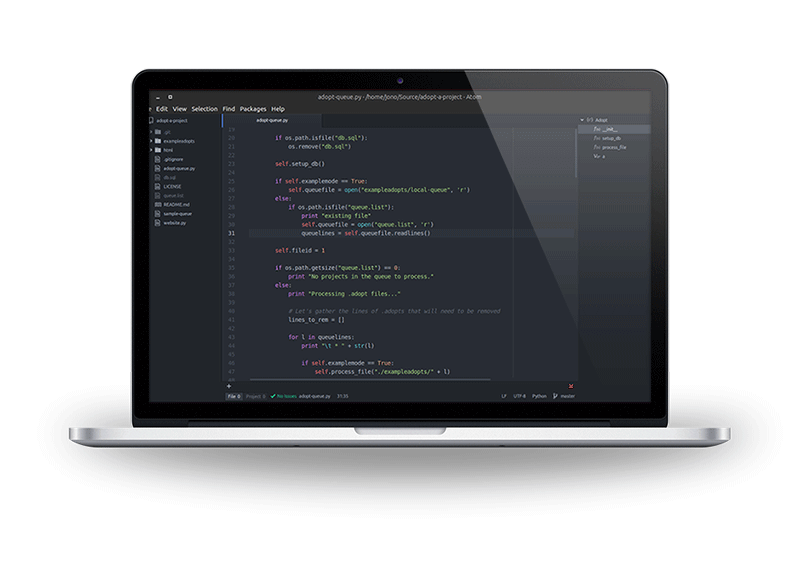
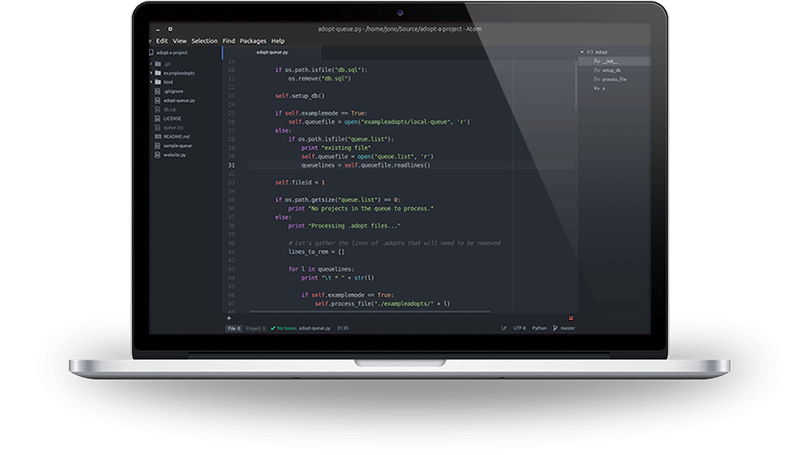
reponsiveness added

Changed region(s): [[0.0625, 0.0, 0.9375, 0.9538], [0.6562, 0.3385, 0.6875, 0.4]]

diff --git a/app/about.html b/app/about.html
@@ -1,12 +1,16 @@
 <section id="about">
-  <div class="about-left-column">
+  <div class="about-header">
     <h2>O wydarzeniu</h2>
     <h1>Z roku na rok rozwój technologiczny nabiera rozpędu</h1>
     <div class="divider"></div>
-    <p>Lorem ipsum dolor sit amet, consectetur adipisicing elit, sed do eiusmod tempor incididunt ut labore et dolore magna aliqua. Ut enim ad minim veniam, quis nostrud exercitation ullamco laboris nisi ut aliquip ex ea commodo consequat. Duis aute irure dolor in reprehenderit in voluptate velit esse cillum dolore eu fugiat nulla pariatur. Excepteur sint occaecat cupidatat non proident, sunt in culpa qui officia deserunt mollit anim id est laborum.</p>
-    <p>Lorem ipsum dolor sit amet, consectetur adipisicing elit, sed do eiusmod tempor incididunt ut labore et dolore magna aliqua. Ut enim ad minim veniam, quis nostrud exercitation ullamco laboris nisi ut aliquip ex ea commodo consequat. Duis aute irure dolor in reprehenderit in voluptate velit esse cillum dolore eu fugiat nulla pariatur. Excepteur sint occaecat cupidatat non proident, sunt in culpa qui officia deserunt mollit anim id est laborum.</p>
   </div>
-  <div class="about-right-column">
-    <img src="img/macbook.png" alt="Laptop">
+  <div class="about-columns">
+    <div class="about-left">
+      <p>Lorem ipsum dolor sit amet, consectetur adipisicing elit, sed do eiusmod tempor incididunt ut labore et dolore magna aliqua. Ut enim ad minim veniam, quis nostrud exercitation ullamco laboris nisi ut aliquip ex ea commodo consequat. Duis aute irure dolor in reprehenderit in voluptate velit esse cillum dolore eu fugiat nulla pariatur. Excepteur sint occaecat cupidatat non proident, sunt in culpa qui officia deserunt mollit anim id est laborum.</p>
+      <p>Lorem ipsum dolor sit amet, consectetur adipisicing elit, sed do eiusmod tempor incididunt ut labore et dolore magna aliqua. Ut enim ad minim veniam, quis nostrud exercitation ullamco laboris nisi ut aliquip ex ea commodo consequat. Duis aute irure dolor in reprehenderit in voluptate velit esse cillum dolore eu fugiat nulla pariatur. Excepteur sint occaecat cupidatat non proident, sunt in culpa qui officia deserunt mollit anim id est laborum.</p>
+    </div>
+    <div class="about-right">
+      <img src="img/macbook.png" alt="Laptop">
+    </div>
   </div>
 </section>

diff --git a/app/scss/_about.scss b/app/scss/_about.scss
@@ -1,12 +1,10 @@
 #about {
   color: #222;
   margin-top: 10vh;
-  display: flex;
-  align-items: flex-end;
 
-  .about-left-column {
-    margin-left: 20%;
-    width: 30%;
+  .about-header {
+    margin-left: 10%;
+    width: 40%;
 
     h2 {
       color: $button-color;
@@ -15,18 +13,65 @@
     .divider {
       width: 3em;
       border-top: medium solid $button-color;
-      margin-bottom: 3em;
-    }
-    p:last-child {
-      margin-bottom: 10vh;
     }
   }
-  .about-right-column {
-    width: 50%;
 
-    img {
+  .about-columns {
+    display: flex;
+    align-items: flex-end;
+
+    .about-left {
+      margin-left: 10%;
+      width: 40%;
+
+      p:first-child {
+        margin-top: 3em;
+      }
+      p:last-child {
+        margin-bottom: 5vh;
+      }
+    }
+    .about-right {
+      margin-right: 10%;
+      width: 40%;
+
+      img {
+        width: 100%;
+      }
+    }
+  }
+}
+
+@media all and (max-width: 1000px) {
+  #about {
+    .about-header, .about-columns {
+      margin-left: 15%;
+      width: 70%;
+    }
+    .about-columns {
+      flex-direction: column-reverse;
+      align-items: center;
+
+      .about-right, .about-left {
+        margin: 0;
+        width: 100%;
+
+        p:first-child {
+          margin-top: 0;
+        }
+        img {
+          margin-top: 3em;
+        }
+      }
+    }
+  }
+}
+
+@media all and (max-width: 600px) {
+  #about {
+    .about-header, .about-columns {
+      margin-left: 10%;
       width: 80%;
-      margin: 0 10%;
     }
   }
 }
